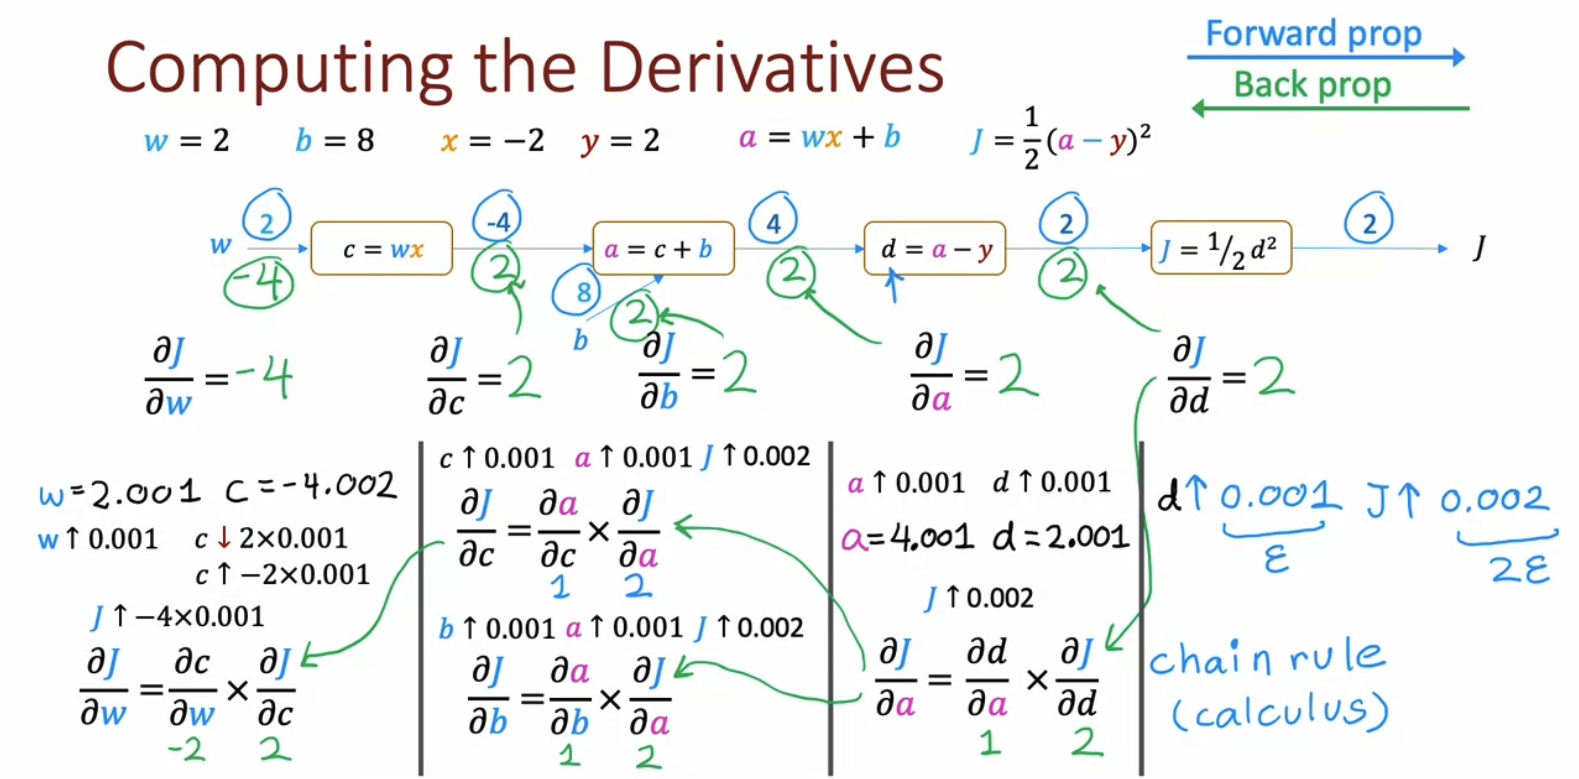
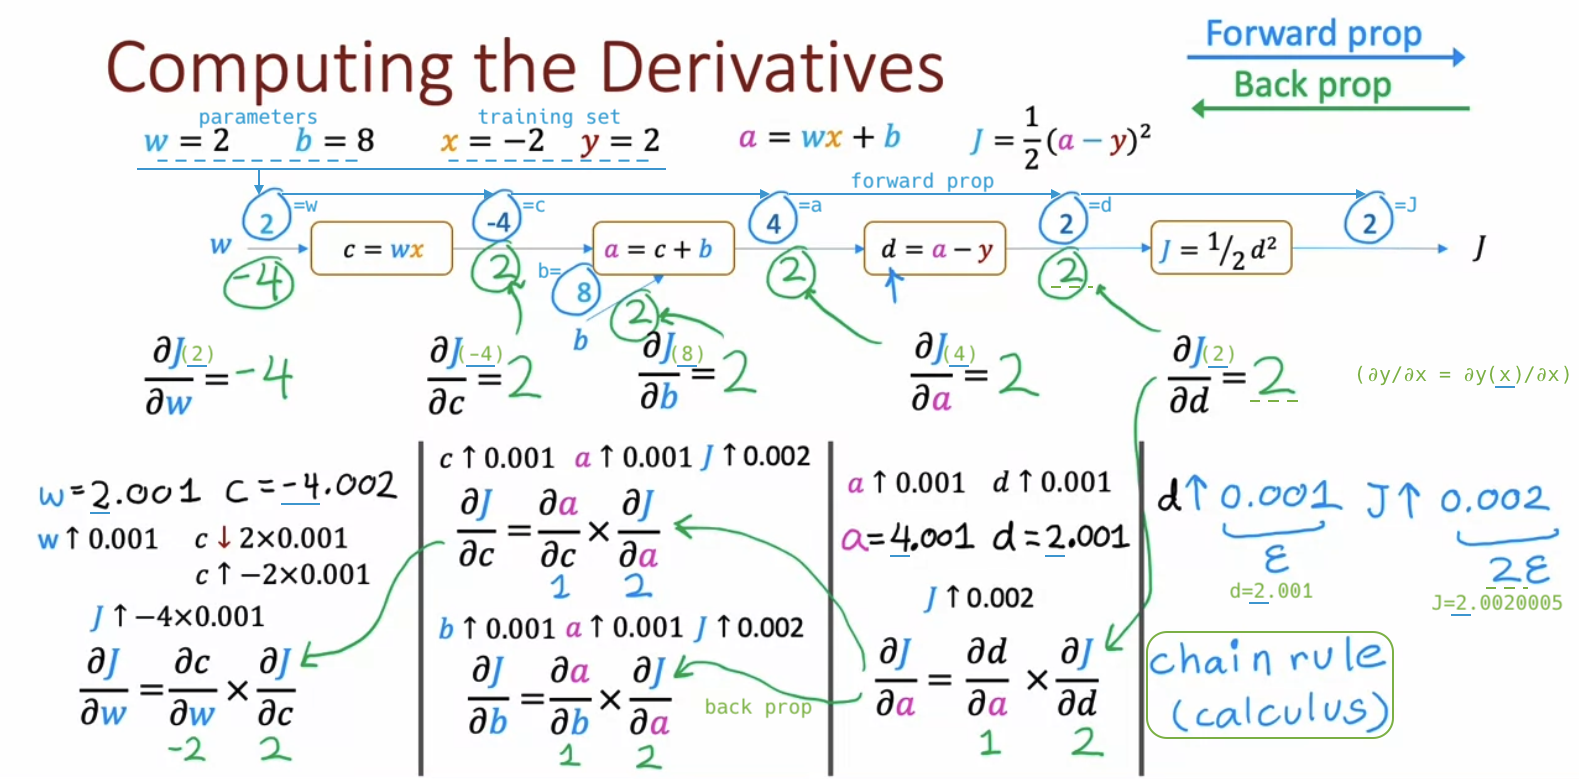
feat: take notes

diff --git a/s1_machine_learning_specialization/c2_advanced_learning_algorithms/w2_neural_network_training/09_back_propagation_optional/readme.md b/s1_machine_learning_specialization/c2_advanced_learning_algorithms/w2_neural_network_training/09_back_propagation_optional/readme.md
@@ -28,15 +28,27 @@
 
 ## Computation graph (Optional)
 
-- asdf
+- Forward prop:
 
   ![alt text](resources/notes/08.png)
+
+- **Forward prop &rarr; (remember w, c, b, a, d) &rarr; Back prop**:
+
+  - **Chain rule**: ∂J/∂w = (((∂J/∂d) \* ∂d/∂a) \* ∂a/∂c) \* ∂c/∂w
 
   ![alt text](resources/notes/09.png)
 
   ![alt text](resources/notes/10.png)
 
   ![alt text](resources/notes/11.png)
+
+> [!NOTE]
+>
+> - 🤯 Numerical Differentiation: ∂J(w)/∂w = (J(w+ε) - J(w-ε)) / 2ε. For example, as ε=1<sup>-4</sup>.
+>
+> - 🤯 Symbolic Differentiation: both the input and output are **expressions**, not values. For instance, the derivative of x<sup>2</sup> with respect to x is 2x.
+>
+> - 😎 **Automatic Differentiation** (Back Propagation): use the **chain rule** to compute both derivatives **efficiently** and **accurately**.
 
 ## Larger neural network example (Optional)
 
